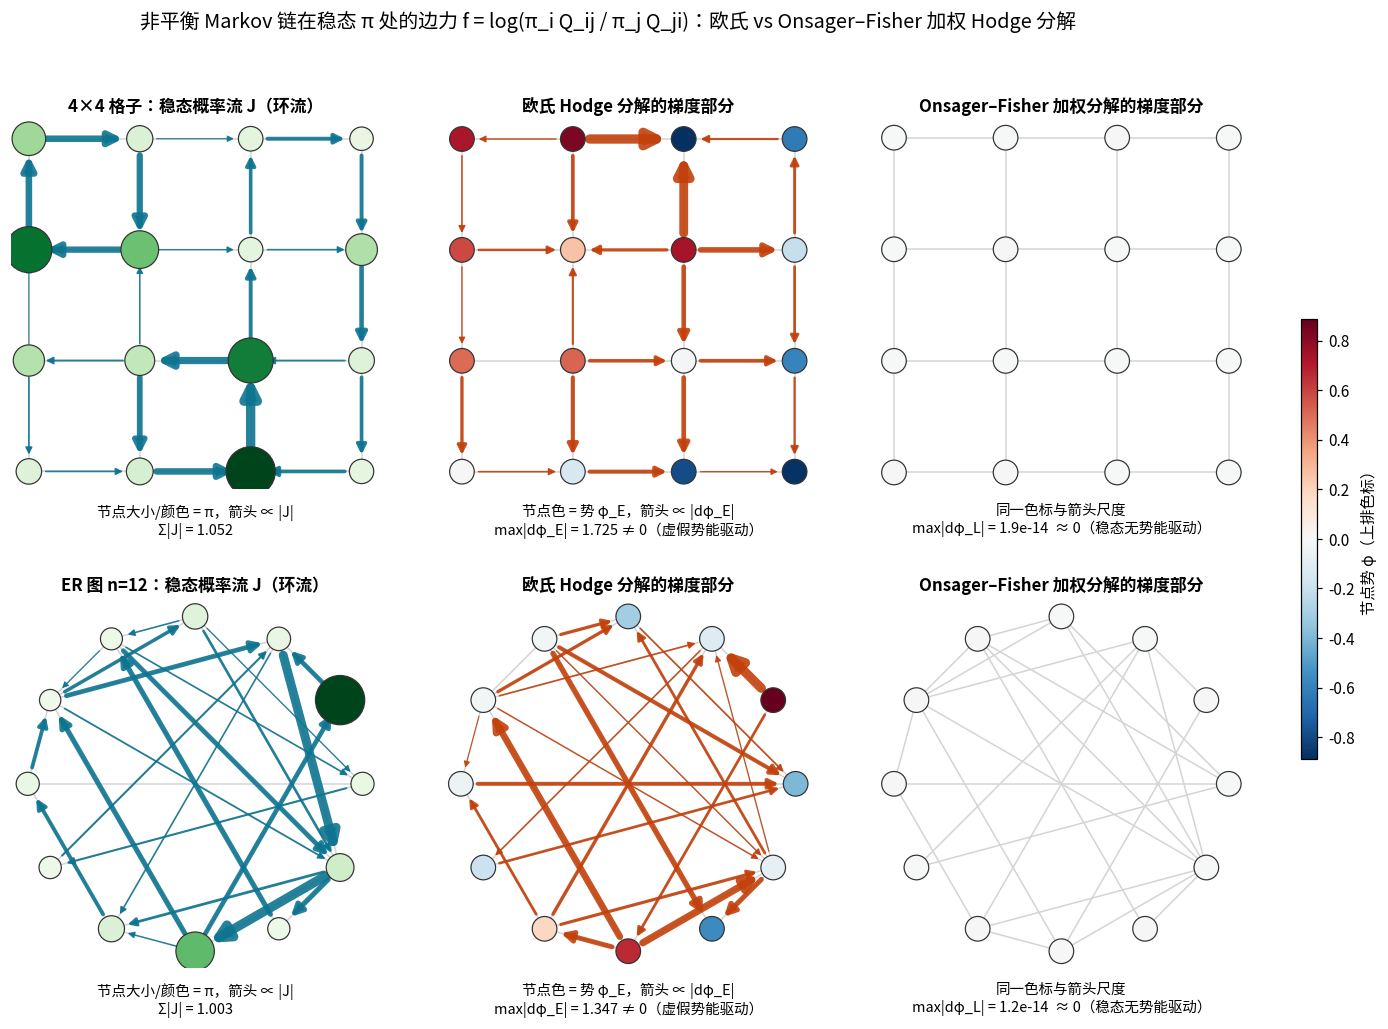
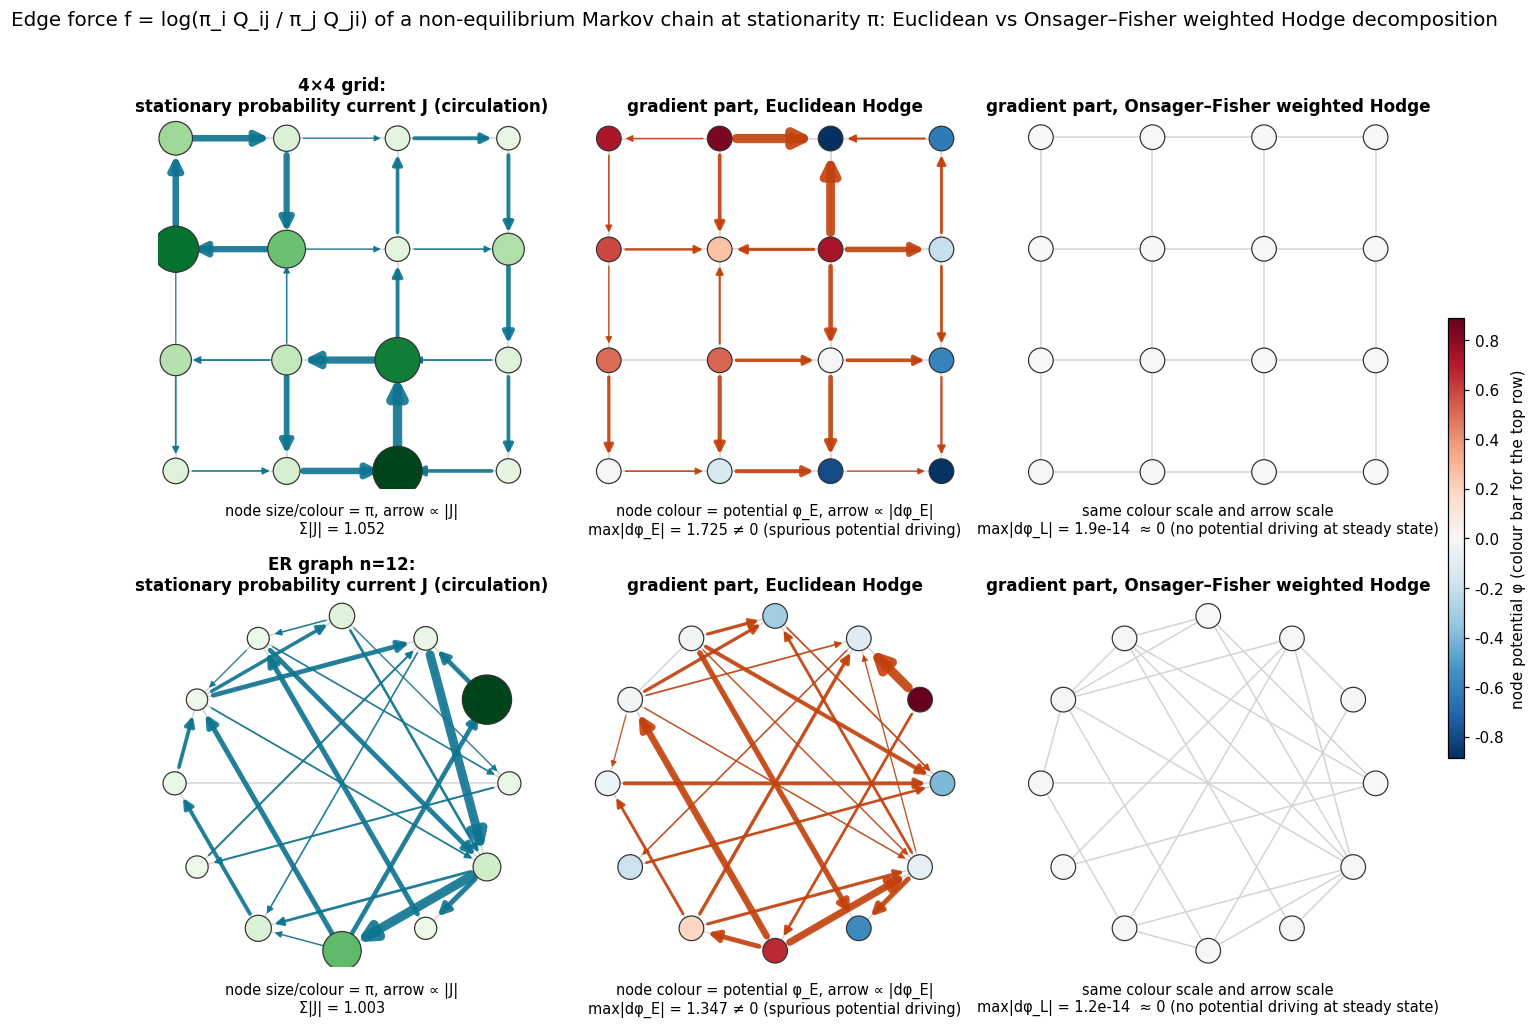
Figures: English labels, re-rendered

diff --git a/viz/viz_s3_front.py b/viz/viz_s3_front.py
@@ -9,7 +9,7 @@ st, b = sys.argv[1], int(sys.argv[2])
 Y = load_truth('S3', st)['rho'][b]
 P = [('truth', Y), ('fisher_hodge_old', load_cache(f'S3_fisher_hodge_{st}')['R'][b]),
      ('fisher_hodge_wfr', load_cache(f'S3_fisher_hodge_wfr_{st}')['R'][b]), ('gnn_ode', load_cache(f'S3_gnn_ode_{st}')['R'][b])]
-LAB3 = dict(LAB); LAB3['fisher_hodge_old'] = 'Fisher–Hodge（旧反应项 −ρ r_θ）'; LAB3['fisher_hodge_wfr'] = 'Fisher–Hodge-WFR（新反应项）'
+LAB3 = dict(LAB); LAB3['fisher_hodge_old'] = 'Fisher–Hodge, free reaction MLP'; LAB3['fisher_hodge_wfr'] = 'Fisher–Hodge, Fisher–Rao reaction'
 LC3 = dict(LCOL); LC3['fisher_hodge_old'] = '#eb6834'; LC3['fisher_hodge_wfr'] = '#2a78d6'
 norm = mcolors.PowerNorm(0.4, vmin=0, vmax=1.0); cmap = plt.get_cmap('magma'); OV = 1.03
 row = int(np.unravel_index(np.argmax(Y[0]), Y[0].shape)[0])
@@ -20,7 +20,7 @@ times = np.arange(0, 201, 2)
 
 def mstat(X):
     if not np.isfinite(X).all():
-        return '发散', '#ff3b30'
+        return 'diverged', '#ff3b30'
     return f'max ρ={X.max():.2f}\nmin ρ={X.min():+.2f}', ('#39ff14' if X.max() > OV else ('#ff2bd6' if X.min() < 0 else 'white'))
 
 
@@ -32,30 +32,30 @@ for i, (m, X) in enumerate(P):
     im = ax.imshow(density_rgba(X[0], norm, cmap, 0.5, over=OV), origin='lower', extent=[0, 1, 0, 1], interpolation='nearest')
     ax.axhline((row + 0.5) / 32, color='white', ls='--', lw=0.8, alpha=0.8)
     ax.set_xticks([]); ax.set_yticks([])
-    ax.set_title(LAB3[m], fontsize=10.5, fontweight='bold', color=LC3[m])
+    ax.set_title(LAB3[m], fontsize=9, fontweight='bold', color=LC3[m])
     t1 = ax.text(0.97, 0.97, '', transform=ax.transAxes, ha='right', va='top', fontsize=8.5, color='white',
                  bbox=dict(boxstyle='round,pad=0.25', fc=(0, 0, 0, 0.6), ec='none'))
     t2 = ax.text(0.03, 0.97, '', transform=ax.transAxes, ha='left', va='top', fontsize=8.5, color='white',
                  bbox=dict(boxstyle='round,pad=0.25', fc=(0, 0, 0, 0.6), ec='none'))
     axs.append(ax); ims.append(im); txt.append(t1); tt.append(t2)
 cax = fig.add_axes([0.915, bot, 0.012, top - bot])
-cb = fig.colorbar(plt.cm.ScalarMappable(norm=norm, cmap=cmap), cax=cax); cb.set_label('ρ（真实饱和值 = 1；ρ^0.4 刻度）', fontsize=8.5)
+cb = fig.colorbar(plt.cm.ScalarMappable(norm=norm, cmap=cmap), cax=cax); cb.set_label('ρ (true carrying capacity = 1; ρ^0.4 scale)', fontsize=8.5)
 from matplotlib.patches import Patch
-fig.legend(handles=[Patch(color='#c8ff9e', label='ρ ≈ 1.05（越过饱和值）'), Patch(color='#00b300', label='ρ ≥ 1.6'), Patch(color=NEG_SOFT, label='ρ < 0'), Patch(color=NEG_HARD, label='ρ ≪ 0')],
-           loc='upper right', bbox_to_anchor=(0.99, 0.405), ncol=1, fontsize=8.5, frameon=False)
+fig.legend(handles=[Patch(color='#c8ff9e', label='ρ ≈ 1.05 (above carrying capacity)'), Patch(color='#00b300', label='ρ ≥ 1.6'), Patch(color=NEG_SOFT, label='ρ < 0'), Patch(color=NEG_HARD, label='ρ ≪ 0')],
+           loc='upper center', bbox_to_anchor=(0.45, 0.405), ncol=4, fontsize=8.5, frameon=False)
 pax = fig.add_axes([0.06, 0.13, 0.72, 0.22])
 lines = {}
 for m, X in P:
     lines[m], = pax.plot(xc, X[0, row], color=LC3[m], lw=3.0 if m == 'truth' else 2.0, ls='-' if m != 'truth' else '-',
                          alpha=0.9, label=LAB3[m], zorder=5 if m == 'truth' else 3)
 pax.axhline(1.0, color='#111', ls=':', lw=1)
-pax.text(0.005, 1.03, '饱和值 1', fontsize=8.5, color='#111', va='bottom')
+pax.text(0.005, 1.03, 'carrying capacity 1', fontsize=8.5, color='#111', va='bottom')
 pax.set_xlim(0, 1); pax.set_ylim(-0.15, 1.7); pax.set_yticks([0, 0.5, 1, 1.5])
-pax.set_xlabel('x（沿热图中白色虚线的剖面，仅看形状）', fontsize=9); pax.set_ylabel('ρ')
+pax.set_xlabel('x (profile along the white dashed line in the heat maps; shape only)', fontsize=9); pax.set_ylabel('ρ')
 for sp in ['top', 'right']:
     pax.spines[sp].set_visible(False)
 pax.legend(loc='upper left', bbox_to_anchor=(1.01, 1.0), fontsize=8.5, frameon=False)
-fig.suptitle('S3 Fisher–KPP 前沿传播（OOD 增长率场）：旧反应项过冲到 ~1.5，新 WFR 反应项饱和在 1', fontsize=12.5, y=0.985)
+fig.suptitle('S3 Fisher–KPP front propagation (OOD growth-rate field): free reaction MLP overshoots to ~1.5, Fisher–Rao reaction saturates at 1', fontsize=12.5, y=0.985)
 banner = fig.text(0.5, 0.925, '', ha='center', fontsize=10.5, fontweight='bold')
 tl = Timeline(fig, [0.06, 0.03, 0.6, 0.035])
 frames = []
@@ -68,7 +68,7 @@ for kk, k in enumerate(times):
         set_border(axs[i], t, k=kk)
         lines[m].set_ydata(np.clip(X[k, row], -0.15, 1.7))
     ph = phase(t)
-    banner.set_text('训练窗结束 (t = T)：此后全部为外推' if ph == 'flash' else ('训练窗内 t ≤ T' if ph == 'train' else ''))
+    banner.set_text('end of training window (t = T): everything after is extrapolation' if ph == 'flash' else ('inside training window, t ≤ T' if ph == 'train' else ''))
     banner.set_color(FLASH_C if ph == 'flash' else '#166534')
     tl.update(t, kk)
     frames.append(fig_to_array(fig))
@@ -76,7 +76,7 @@ frames += [frames[-1]] * 15
 plt.close(fig)
 write_video(frames, os.path.join(OUT, f'{tag}_rollout'), fps=10, gif_width=1100)
 
-TS = [(0, 't = 0'), (20, 't = T（训练窗末）'), (40, 't = 2T'), (100, 't = 5T'), (200, 't = 10T')]
+TS = [(0, 't = 0'), (20, 't = T (end of training window)'), (40, 't = 2T'), (100, 't = 5T'), (200, 't = 10T')]
 fig, ax = plt.subplots(5, 5, figsize=(12, 12.2), dpi=120, gridspec_kw=dict(wspace=0.05, hspace=0.1, height_ratios=[1, 1, 1, 1, 0.8]))
 for i, (m, X) in enumerate(P):
     for j, (k, lab) in enumerate(TS):
@@ -92,7 +92,7 @@ for i, (m, X) in enumerate(P):
         if i == 0:
             a.set_title(lab, fontsize=10)
         if j == 0:
-            a.set_ylabel(LAB3[m].replace('（', '\n（'), fontsize=8.5, color=LC3[m], fontweight='bold')
+            a.set_ylabel(LAB3[m].replace(', ', ',\n'), fontsize=8.5, color=LC3[m], fontweight='bold')
 for j, (k, lab) in enumerate(TS):
     a = ax[4, j]
     for m, X in P:
@@ -102,10 +102,10 @@ for j, (k, lab) in enumerate(TS):
     for sp in ['top', 'right']:
         a.spines[sp].set_visible(False)
     if j == 0:
-        a.set_ylabel('剖面 ρ(x)', fontsize=9)
+        a.set_ylabel('profile ρ(x)', fontsize=9)
 fig.legend(handles=[Patch(color='#c8ff9e', label='ρ ≈ 1.05'), Patch(color='#00b300', label='ρ ≥ 1.6'), Patch(color=NEG_SOFT, label='ρ < 0'), Patch(color=NEG_HARD, label='ρ ≪ 0')] +
            [plt.Line2D([], [], color=LC3[m], lw=2, label=LAB3[m]) for m, _ in P], loc='lower center', ncol=4, fontsize=8.5,
            frameon=False, bbox_to_anchor=(0.5, 0.045))
-fig.suptitle('S3 Fisher–KPP 前沿传播胶片条（末行 = 白色虚线处剖面；绿色 = 越过饱和值 1，越深越高）', fontsize=12, y=0.92)
+fig.suptitle('S3 Fisher–KPP front propagation filmstrip (last row = profile along the white dashed line; green = above carrying capacity 1, darker = higher)', fontsize=12, y=0.92)
 p = os.path.join(OUT, f'{tag}_filmstrip.png'); fig.savefig(p, bbox_inches='tight'); plt.close(fig)
 print('  wrote', p)

diff --git a/viz/viz_markov_hodge.py b/viz/viz_markov_hodge.py
@@ -67,20 +67,20 @@ def static_row(axr, kind, n, eps, seed, label):
     pnorm = mcolors.TwoSlopeNorm(0, -pmax, pmax); pc = plt.get_cmap('RdBu_r')
     psz = 140 + 900 * pi / pi.max()
     draw(axr[0], pos, E, d['J'], np.abs(d['J']).max(), pi, mcolors.Normalize(0, pi.max()), plt.get_cmap('Greens'), '#0e7490',
-         f'{label}：稳态概率流 J（环流）', f'节点大小/颜色 = π，箭头 ∝ |J|\nΣ|J| = {np.abs(d["J"]).sum():.3f}', node_size=psz)
-    draw(axr[1], pos, E, d['gE'], gmax, d['phE'], pnorm, pc, '#c2410c', '欧氏 Hodge 分解的梯度部分',
-         f'节点色 = 势 φ_E，箭头 ∝ |dφ_E|\nmax|dφ_E| = {gmax:.3f} ≠ 0（虚假势能驱动）')
-    draw(axr[2], pos, E, d['gL'], gmax, d['phL'], pnorm, pc, '#c2410c', 'Onsager–Fisher 加权分解的梯度部分',
-         f'同一色标与箭头尺度\nmax|dφ_L| = {np.abs(d["gL"]).max():.1e}  ≈ 0（稳态无势能驱动）')
+         f'{label}:\nstationary probability current J (circulation)', f'node size/colour = π, arrow ∝ |J|\nΣ|J| = {np.abs(d["J"]).sum():.3f}', node_size=psz)
+    draw(axr[1], pos, E, d['gE'], gmax, d['phE'], pnorm, pc, '#c2410c', 'gradient part, Euclidean Hodge',
+         f'node colour = potential φ_E, arrow ∝ |dφ_E|\nmax|dφ_E| = {gmax:.3f} ≠ 0 (spurious potential driving)')
+    draw(axr[2], pos, E, d['gL'], gmax, d['phL'], pnorm, pc, '#c2410c', 'gradient part, Onsager–Fisher weighted Hodge',
+         f'same colour scale and arrow scale\nmax|dφ_L| = {np.abs(d["gL"]).max():.1e}  ≈ 0 (no potential driving at steady state)')
     return pnorm, pc
 
 
 fig, ax = plt.subplots(2, 3, figsize=(15, 10), dpi=110, gridspec_kw=dict(wspace=0.05, hspace=0.3))
-pn, pc = static_row(ax[0], 'grid', 4, 2.0, 7, '4×4 格子')
-static_row(ax[1], 'er', 12, 2.0, 11, 'ER 图 n=12')
+pn, pc = static_row(ax[0], 'grid', 4, 2.0, 7, '4×4 grid')
+static_row(ax[1], 'er', 12, 2.0, 11, 'ER graph n=12')
 cax = fig.add_axes([0.92, 0.3, 0.01, 0.4])
-cb = fig.colorbar(plt.cm.ScalarMappable(norm=pn, cmap=pc), cax=cax); cb.set_label('节点势 φ（上排色标）')
-fig.suptitle('非平衡 Markov 链在稳态 π 处的边力 f = log(π_i Q_ij / π_j Q_ji)：欧氏 vs Onsager–Fisher 加权 Hodge 分解', fontsize=13)
+cb = fig.colorbar(plt.cm.ScalarMappable(norm=pn, cmap=pc), cax=cax); cb.set_label('node potential φ (colour bar for the top row)')
+fig.suptitle('Edge force f = log(π_i Q_ij / π_j Q_ji) of a non-equilibrium Markov chain at stationarity π: Euclidean vs Onsager–Fisher weighted Hodge decomposition', fontsize=13)
 p = os.path.join(OUT, 'markov_hodge_grid4x4_er12_euclid_vs_onsager_fisher_stationary.png'); fig.savefig(p, bbox_inches='tight'); plt.close(fig)
 print('wrote', p)
 
@@ -104,10 +104,10 @@ def frame(axr, k, small=False):
     for a in axr:
         a.clear()
     nE, nL = np.abs(x['gE']).max(), np.abs(x['gL']).max()
-    draw(axr[0], pos, E, x['gE'], gmax, np.clip(x['phE'], -pmax, pmax), pnorm, pc, '#c2410c', '欧氏分解：梯度部分',
-         f'max|dφ| = {nE:.3f}' + ('' if small else '  → 收敛到非零（稳态仍有"势能驱动"）'), node_size=160 if small else None)
-    draw(axr[1], pos, E, x['gL'], gmax, np.clip(x['phL'], -pmax, pmax), pnorm, pc, '#c2410c', 'Onsager–Fisher 加权分解：梯度部分',
-         f'max|dφ| = {nL:.1e}' + ('' if small else '  → 0（只剩环流）'), node_size=160 if small else None)
+    draw(axr[0], pos, E, x['gE'], gmax, np.clip(x['phE'], -pmax, pmax), pnorm, pc, '#c2410c', 'Euclidean decomposition: gradient part',
+         f'max|dφ| = {nE:.3f}' + ('' if small else '  → converges to nonzero (potential driving persists at steady state)'), node_size=160 if small else None)
+    draw(axr[1], pos, E, x['gL'], gmax, np.clip(x['phL'], -pmax, pmax), pnorm, pc, '#c2410c', 'Onsager–Fisher weighted decomposition: gradient part',
+         f'max|dφ| = {nL:.1e}' + ('' if small else '  → 0 (only circulation remains)'), node_size=160 if small else None)
 
 
 fig, axr = plt.subplots(1, 2, figsize=(11, 5.6), dpi=100)
@@ -115,7 +115,7 @@ fig.subplots_adjust(top=0.82, bottom=0.12, wspace=0.08)
 frames = []
 for k in range(len(ts)):
     frame(axr, k)
-    fig.suptitle(f'4×4 格子 Markov 链弛豫 ρ(t) → π：t = {ts[k]:.1f}（谱隙 λ₂ = {ev:.2f}；同一色标与箭头尺度）', fontsize=12)
+    fig.suptitle(f'4×4 grid Markov chain relaxation ρ(t) → π: t = {ts[k]:.1f} (spectral gap λ₂ = {ev:.2f}; same colour and arrow scale)', fontsize=12)
     frames.append(fig_to_array(fig))
 frames += [frames[-1]] * 15
 plt.close(fig)
@@ -126,7 +126,7 @@ fig, ax = plt.subplots(2, 5, figsize=(16, 7.4), dpi=110, gridspec_kw=dict(wspace
 for j, tv in enumerate(TS):
     k = int(np.argmin(np.abs(ts - tv)))
     frame([ax[0, j], ax[1, j]], k, small=True)
-    ax[0, j].set_title(f't = {tv}\n欧氏梯度部分', fontsize=10); ax[1, j].set_title('加权梯度部分', fontsize=10)
-fig.suptitle('Markov 链弛豫胶片条：欧氏梯度部分收敛到非零图样，Onsager–Fisher 加权梯度部分衰减到 0', fontsize=12.5)
+    ax[0, j].set_title(f't = {tv}\nEuclidean gradient part', fontsize=10); ax[1, j].set_title('weighted gradient part', fontsize=10)
+fig.suptitle('Markov chain relaxation filmstrip: the Euclidean gradient part converges to a nonzero pattern, the Onsager–Fisher weighted gradient part decays to 0', fontsize=12.5)
 p = os.path.join(OUT, 'markov_hodge_grid4x4_relaxation_euclid_vs_onsager_fisher_filmstrip.png'); fig.savefig(p, bbox_inches='tight'); plt.close(fig)
 print('wrote', p)

diff --git a/viz/viz_s2_flow.py b/viz/viz_s2_flow.py
@@ -35,13 +35,13 @@ for i, (m, rho, J) in enumerate(P):
         a.streamplot(xc, xc, U, V, density=1.6, color='#7df9ff', linewidth=lw, arrowsize=1.0, arrowstyle='-|>', minlength=0.08)
     a.set_xlim(0, 1); a.set_ylim(0, 1); a.set_xticks([]); a.set_yticks([])
     a.set_title(LAB[m], fontsize=12, fontweight='bold', color=LCOL[m] if m != 'truth' else '#111')
-    a.text(0.03, 0.03, f'max|J| = {mag.max() / Jref:.2f} × 真值', transform=a.transAxes, fontsize=9.5, color='white',
+    a.text(0.03, 0.03, f'max|J| = {mag.max() / Jref:.2f} × reference', transform=a.transAxes, fontsize=9.5, color='white',
            bbox=dict(boxstyle='round,pad=0.25', fc=(0, 0, 0, 0.6), ec='none'))
     if m == 'jko_amort':
-        a.text(0.5, 0.5, '稳态通量 ≈ 0\n（可逆模型无法表示环流）', transform=a.transAxes, ha='center', va='center', fontsize=12,
+        a.text(0.5, 0.5, 'steady flux ≈ 0\n(a reversible model\ncannot carry circulation)', transform=a.transAxes, ha='center', va='center', fontsize=10,
                color='white', fontweight='bold', bbox=dict(boxstyle='round,pad=0.4', fc=(0, 0, 0, 0.45), ec='none'))
-fig.colorbar(plt.cm.ScalarMappable(norm=norm, cmap=cmap), ax=ax, shrink=0.85, pad=0.01, label='稳态密度 ρ(t=10T)（√ 刻度）')
-fig.suptitle('S2 稳态 (t = 10T) 的概率通量 J = ρv 流线（线宽 ∝ |J|，|J| < 3% 真值最大值处不画）：漩涡在 / 漩涡没了', fontsize=12)
+fig.colorbar(plt.cm.ScalarMappable(norm=norm, cmap=cmap), ax=ax, shrink=0.85, pad=0.01, label='steady-state density ρ(t=10T) (sqrt scale)')
+fig.suptitle('S2 streamlines of the probability flux J = ρv at steady state (t = 10T) (line width ∝ |J|; not drawn where |J| < 3% of the reference maximum): vortices present / vortices absent', fontsize=12)
 p = os.path.join(OUT, f'{tag}_flux_streamlines_t10T.png'); fig.savefig(p, bbox_inches='tight'); plt.close(fig)
 print('  wrote', p)
 
@@ -115,14 +115,14 @@ for i, (m, rho, J) in enumerate(P):
     sc = a.scatter(x0, y0, s=12, c=col, edgecolors='black', linewidths=0.3, zorder=3)
     axs.append(a); scs.append(sc); lcs.append(lc)
 txt = fig.text(0.5, 0.035, '', ha='center', fontsize=11)
-fig.suptitle(f'S2 示踪粒子：在各模型自己的稳态速度场 v = J/ρ 中推进（同一组 {NP} 个初始位置，颜色 = 初始方位）', fontsize=12)
+fig.suptitle(f'S2 tracer particles advected in each model\'s own steady velocity field v = J/ρ (same {NP} initial positions; colour = initial azimuth)', fontsize=12)
 frames = []
 for k in range(nfr):
     for i in range(3):
         Tk = tracks[i]
         scs[i].set_offsets(Tk[k].T)
         S, C = segs(Tk, k); lcs[i].set_segments(S); lcs[i].set_color(C)
-    txt.set_text(f'粒子时间 s = {k * FR:.1f}（流场冻结在 t = 10T 的稳态）')
+    txt.set_text(f'particle time s = {k * FR:.1f} (velocity field frozen at the t = 10T steady state)')
     frames.append(fig_to_array(fig))
 frames += [frames[-1]] * 10
 plt.close(fig)
@@ -142,7 +142,7 @@ for i, (m, rho, J) in enumerate(P):
         if i == 0:
             a.set_title(f's = {s}', fontsize=10)
         if j == 0:
-            a.set_ylabel(LAB[m], fontsize=10, fontweight='bold', color=LCOL[m] if m != 'truth' else '#111')
-fig.suptitle('S2 示踪粒子胶片条（稳态速度场 v = J/ρ，粒子时间 s；拖尾 = 最近 1 个时间单位）', fontsize=11.5)
+            a.set_ylabel(wrap_label(LAB[m]), fontsize=9.5, fontweight='bold', color=LCOL[m] if m != 'truth' else '#111')
+fig.suptitle('S2 tracer particles filmstrip (steady velocity field v = J/ρ, particle time s; trail = last 1 time unit)', fontsize=11.5)
 p = os.path.join(OUT, f'{tag}_tracers_filmstrip.png'); fig.savefig(p, bbox_inches='tight'); plt.close(fig)
 print('  wrote', p)

diff --git a/viz/plot_lib.py b/viz/plot_lib.py
@@ -9,20 +9,16 @@ from common import RUNS, DT, D, HC
 
 VIZ = os.path.join(FH_ROOT, 'viz'); CACHE = os.path.join(VIZ, 'cache'); OUT = os.path.join(VIZ, 'out')
 os.makedirs(OUT, exist_ok=True)
-CJK = 'DejaVu Sans'
-for f in ['/usr/share/fonts/opentype/noto/NotoSansCJK-Regular.ttc', '/usr/share/fonts/opentype/noto/NotoSansCJK-Bold.ttc']:
-    if os.path.exists(f):
-        font_manager.fontManager.addfont(f)
-        CJK = font_manager.FontProperties(fname=f).get_name()
-plt.rcParams.update({'font.family': [CJK, 'DejaVu Sans'], 'font.size': 10, 'axes.unicode_minus': False,
+FONT = 'DejaVu Sans'
+plt.rcParams.update({'font.family': [FONT, 'DejaVu Sans'], 'font.size': 10, 'axes.unicode_minus': False,
                      'figure.facecolor': 'white', 'savefig.facecolor': 'white'})
 
 NEG_SOFT = np.array(mcolors.to_rgba('#00e5ff'))   # rho < 0 (mild): cyan
 NEG_HARD = np.array(mcolors.to_rgba('#ff2bd6'))   # rho strongly negative: magenta
 OVER = np.array(mcolors.to_rgba('#39ff14'))       # rho above the colour range (S3 overshoot): neon green
 NANC = np.array(mcolors.to_rgba('#9ca3af'))       # blown up / NaN: grey
-LAB = {'truth': '真值 (参考解)', 'fisher_hodge': 'Fisher–Hodge (本文)', 'euclid_gf': '欧氏梯度流 GNN', 'gnn_ode': 'GNN-ODE (无结构)',
-       'jko_amort': 'JKO 自由能 (可逆)', 'fisher_hodge_wfr': 'Fisher–Hodge-WFR (新反应项)', 'fisher_hodge_old': 'Fisher–Hodge (旧反应项)'}
+LAB = {'truth': 'Reference', 'fisher_hodge': 'Fisher–Hodge (ours)', 'euclid_gf': 'Euclidean gradient-flow GNN', 'gnn_ode': 'GNN-ODE (unstructured)',
+       'jko_amort': 'Reversible free energy (JKO)', 'fisher_hodge_wfr': 'Fisher–Hodge, Fisher–Rao reaction', 'fisher_hodge_old': 'Fisher–Hodge, free reaction MLP'}
 LCOL = {'truth': '#111111', 'fisher_hodge': '#2a78d6', 'euclid_gf': '#eb6834', 'gnn_ode': '#1baf7a', 'jko_amort': '#9b59b6',
         'fisher_hodge_wfr': '#2a78d6', 'fisher_hodge_old': '#eb6834'}
 TRAIN_C, FLASH_C, EXTRAP_C = '#22c55e', '#ff3b30', '#9aa0a6'
@@ -77,7 +73,7 @@ def set_border(ax, t, T=1.0, k=0):
 
 def stat_text(X, mass_mode='mean'):
     if not np.isfinite(X).all():
-        return '数值发散 (NaN)', '#ff3b30'
+        return 'diverged (NaN)', '#ff3b30'
     m = X.mean()
     mn = X.min()
     return f'∫ρ={m:.3f}\nmin ρ={mn:+.2f}', ('#ff2bd6' if mn < 0 else 'white')
@@ -93,8 +89,8 @@ class Timeline:
         for sp in ['left', 'right', 'top']:
             ax.spines[sp].set_visible(False)
         ax.axvspan(0, T, color=TRAIN_C, alpha=0.25, lw=0)
-        ax.text(T / 2, 0.5, '训练窗', ha='center', va='center', fontsize=8, color='#166534')
-        ax.text((T + tmax) / 2, 0.5, '外推（模型从未见过 t > T）', ha='center', va='center', fontsize=8, color='#555')
+        ax.text(T / 2, 0.5, 'training window', ha='center', va='center', fontsize=6, color='#166534')
+        ax.text((T + tmax) / 2, 0.5, 'extrapolation (t > T never seen in training)', ha='center', va='center', fontsize=8, color='#555')
         s.vl = ax.axvline(T, color=TRAIN_C, lw=2)
         s.cur = ax.axvline(0, color='#111', lw=3)
         s.T = T
@@ -149,4 +145,9 @@ def node_vec(J):
 
 def legend_patches():
     from matplotlib.patches import Patch
-    return [Patch(color=NEG_SOFT, label='ρ < 0'), Patch(color=NEG_HARD, label='ρ ≪ 0'), Patch(color=NANC, label='发散 NaN')]
+    return [Patch(color=NEG_SOFT, label='ρ < 0'), Patch(color=NEG_HARD, label='ρ ≪ 0'), Patch(color=NANC, label='NaN')]
+
+
+def wrap_label(s, width=18):
+    import textwrap
+    return '\n'.join(textwrap.wrap(s, width))

diff --git a/viz/viz_grid.py b/viz/viz_grid.py
@@ -37,7 +37,7 @@ for i, (m, X) in enumerate(P):
     axs.append(ax); ims.append(im); txt.append(t1); tt.append(t2)
 cax = fig.add_axes([0.915, bot, 0.012, top - bot])
 sm = plt.cm.ScalarMappable(norm=norm, cmap=cmap)
-cb = fig.colorbar(sm, cax=cax); cb.set_label('ρ（色标固定为真值全程最大值，√ 刻度）', fontsize=8)
+cb = fig.colorbar(sm, cax=cax); cb.set_label('ρ (colour scale fixed to the reference\nmaximum over the whole rollout, sqrt scale)', fontsize=7.5)
 fig.suptitle(title, fontsize=12.5, y=0.975)
 banner = fig.text(0.5, 0.155, '', ha='center', va='center', fontsize=11, color=FLASH_C, fontweight='bold')
 tl = Timeline(fig, [0.06, 0.075, 0.6, 0.05])
@@ -51,7 +51,7 @@ for kk, k in enumerate(times):
         tt[i].set_text(f't = {t:.1f}')
         set_border(axs[i], t, k=kk)
     ph = phase(t)
-    banner.set_text('训练窗结束 (t = T)：此后全部为外推' if ph == 'flash' else ('训练窗内 t ≤ T' if ph == 'train' else ''))
+    banner.set_text('end of training window (t = T): everything after is extrapolation' if ph == 'flash' else ('inside training window, t ≤ T' if ph == 'train' else ''))
     banner.set_color(FLASH_C if ph == 'flash' else '#166534')
     tl.update(t, kk)
     frames.append(fig_to_array(fig))
@@ -60,7 +60,7 @@ plt.close(fig)
 write_video(frames, os.path.join(OUT, f'{tag}_rollout'), fps=10, gif_width=1100)
 
 # ---------------------------------------------------------------- filmstrip
-TS = [(0, 't = 0'), (20, 't = T（训练窗末）'), (40, 't = 2T'), (100, 't = 5T'), (200, 't = 10T')]
+TS = [(0, 't = 0'), (20, 't = T (end of training window)'), (40, 't = 2T'), (100, 't = 5T'), (200, 't = 10T')]
 fig, ax = plt.subplots(nc, 5, figsize=(11.5, 2.1 * nc + 0.5), dpi=130, gridspec_kw=dict(wspace=0.04, hspace=0.08))
 for i, (m, X) in enumerate(P):
     for j, (k, lab) in enumerate(TS):
@@ -75,10 +75,10 @@ for i, (m, X) in enumerate(P):
         if i == 0:
             a.set_title(lab, fontsize=10)
         if j == 0:
-            a.set_ylabel(LAB[m], fontsize=9.5, color=LCOL[m], fontweight='bold')
-fig.colorbar(plt.cm.ScalarMappable(norm=norm, cmap=cmap), ax=ax, shrink=0.6, pad=0.01, label='ρ（√ 刻度）')
+            a.set_ylabel(wrap_label(LAB[m]), fontsize=9, color=LCOL[m], fontweight='bold')
+fig.colorbar(plt.cm.ScalarMappable(norm=norm, cmap=cmap), ax=ax, shrink=0.6, pad=0.01, label='ρ (sqrt scale)')
 fig.legend(handles=legend_patches(), loc='lower center', ncol=3, fontsize=8.5, frameon=False, bbox_to_anchor=(0.45, 0.0))
-fig.suptitle(title + '　|　绿框 = 训练窗内，灰框 = 外推', fontsize=11.5)
+fig.suptitle(title + '  |  green frame = training window, grey frame = extrapolation', fontsize=11.5)
 p = os.path.join(OUT, f'{tag}_filmstrip.png')
 fig.savefig(p, bbox_inches='tight'); plt.close(fig)
 print('  wrote', p, f'{os.path.getsize(p) / 1e6:.1f} MB')
